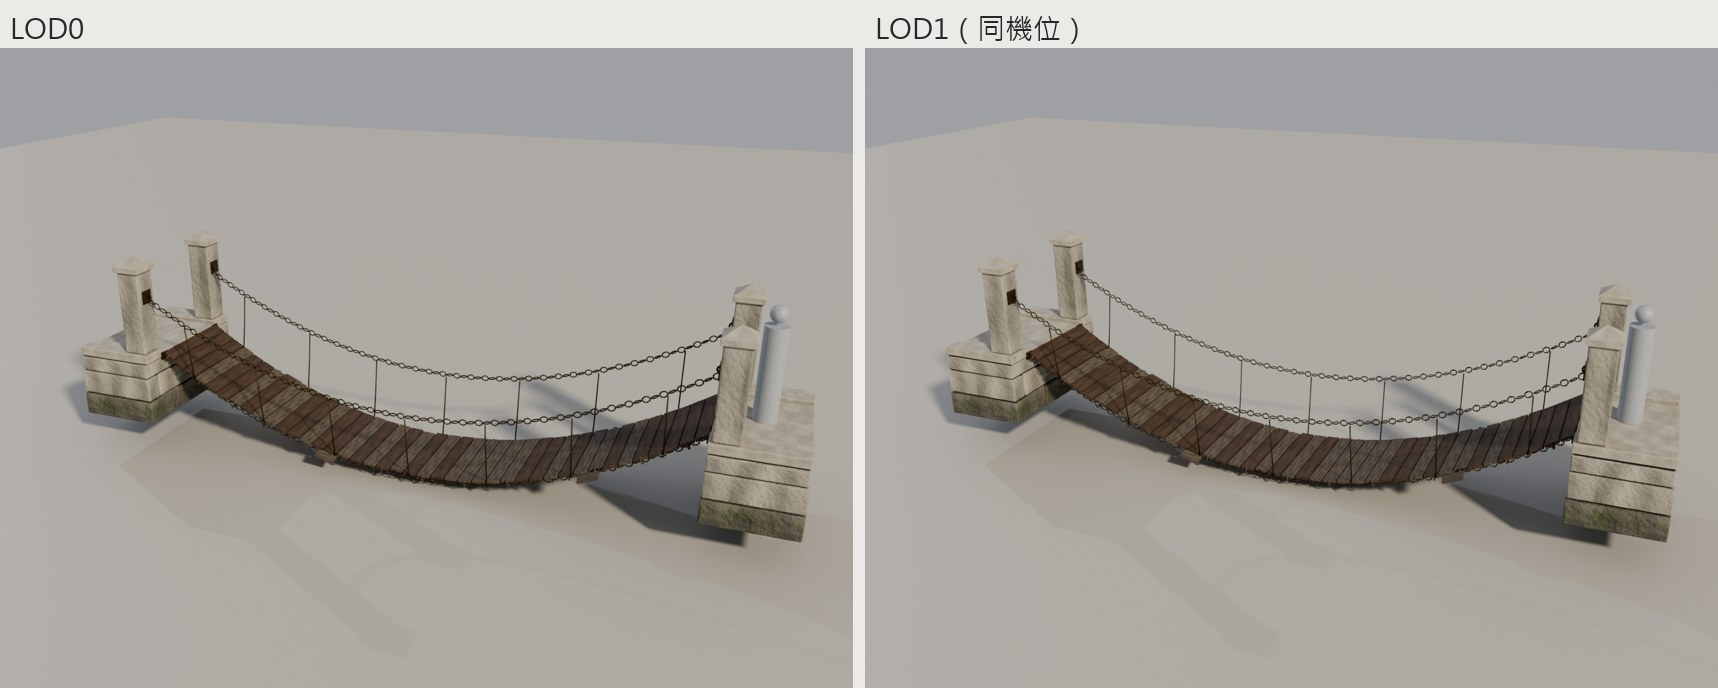
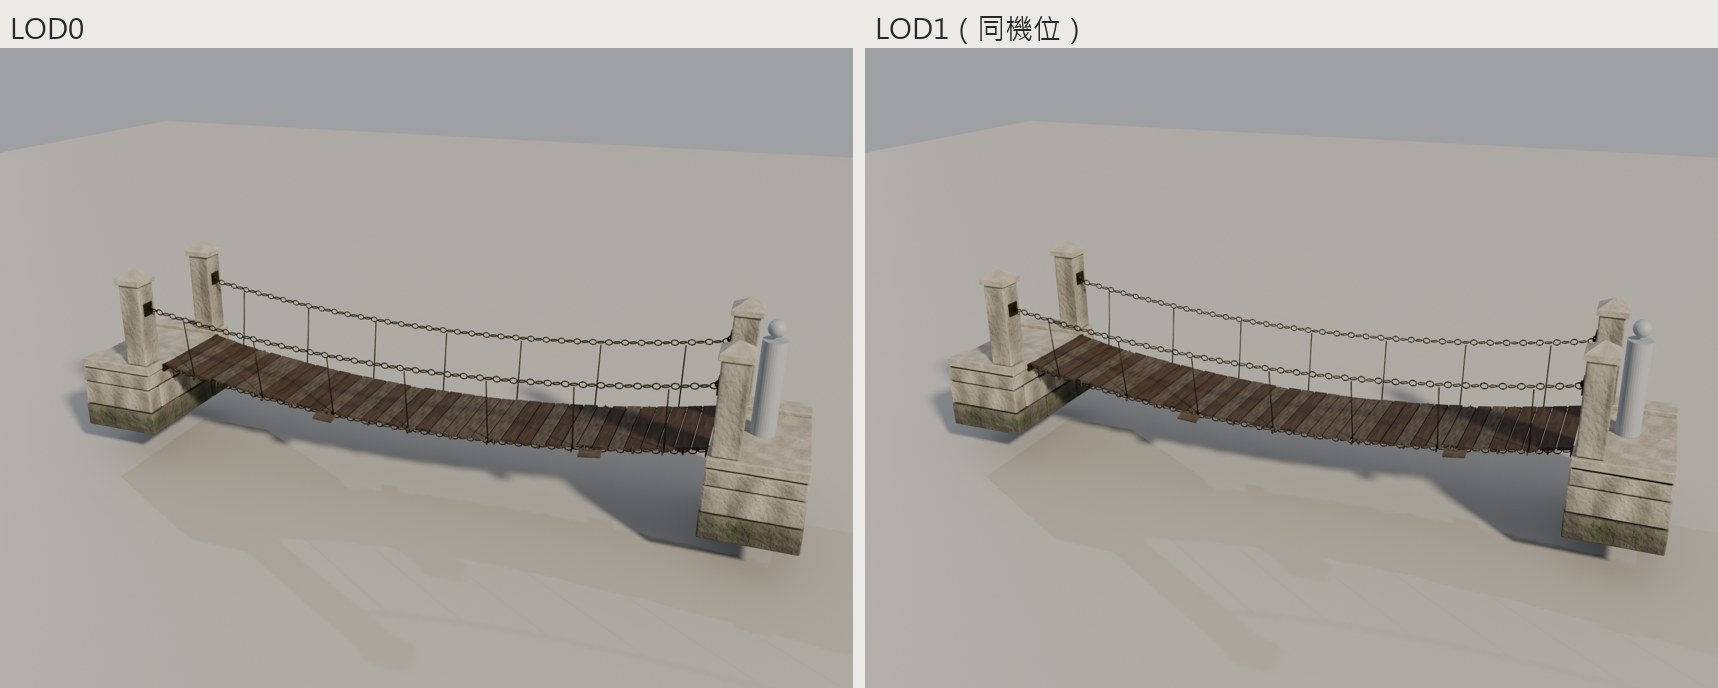
MC02-12M: lower the sag to 0.45 m so both ends stay under 12 degrees (review on #98)
Only the 12 m sag changes (SAG_BY_SPAN); 24 m keeps 1.5 m. Max deck slope 33.1 -> 11.1 degrees. Blender QA errors 0, FBX re-import exact, Unity 6000.3.28f1 check all PASS (walkable deck, guard walls, boardwalk joints 0 cm).

diff --git a/art/source/mc02-rope-bridge/build_mc02.py b/art/source/mc02-rope-bridge/build_mc02.py
@@ -1,6 +1,6 @@
 """承天 · 11/05 A 包 MC02 索橋（Johnnnny0823）。Exports go to art/exports/mc02-rope-bridge.
 
-Two walkable chain bridges, 24 m and 12 m long, 1.6 m deck, 1.5 m sag, both ends at the same height. Same hand and the same
+Two walkable chain bridges, 24 m and 12 m long, 1.6 m deck, 1.5 m / 0.45 m sag, both ends at the same height. Same hand and the same
 shared 2048 trim sheet as MC01 / TX04 (M_MountainStreet_Trim), so the bridges batch with the street and the academy; geometry
 helpers from the MC01 builder and stone_block from the TX04 builder (both merged).
 
@@ -28,21 +28,25 @@ import build_tx04 as tx
 PKG = 'mc02-rope-bridge'; OUT = ROOT / 'art/exports' / PKG; PRE = ROOT / 'art/previews' / PKG
 for p in (OUT, PRE): p.mkdir(parents=True, exist_ok=True)
 SPEC = {'B24': 24.0, 'B12': 12.0}
-W, SAG, HEAD = 1.6, 1.5, 1.4          # deck width, sag, bridgehead depth
+W, HEAD = 1.6, 1.4                     # deck width, bridgehead depth
+# sag per span: 1.5 m on the 24 m bridge (package); the 12 m bridge sags 0.45 m so both ends stay under 12 degrees
+# (review on PR #98: 1.5 m on 12 m gave 33 degrees and read as a ramp of stair-like planks)
+SAG_BY_SPAN = {24.0: 1.5, 12.0: .45}
+def sag(L): return SAG_BY_SPAN[float(L)]
 PX = .78                               # deck chain x (under the plank ends)
 POST_X, POST_H = 1.02, 1.45            # stone post centre x, height above the walking surface
 HAND_Z = 1.05                          # hand chain anchor height above the walking surface
 
 def deck_z(y, L):
-    """walking-surface height: 0 on the bridgeheads, a parabola sagging SAG at mid span between them"""
+    """walking-surface height: 0 on the bridgeheads, a parabola sagging sag(L) at mid span between them"""
     a, b = HEAD, L - HEAD
     if y <= a or y >= b: return 0.0
-    t = (y - a) / (b - a); return -SAG * 4 * t * (1 - t)
+    t = (y - a) / (b - a); return -sag(L) * 4 * t * (1 - t)
 
 def hand_z(y, L):
     """hand chain: anchored at HAND_Z on the inner faces of the posts, sagging with the deck so it stays ~1.05 m above it"""
     a, b = HEAD - .2, L - HEAD + .2
-    t = min(1.0, max(0.0, (y - a) / (b - a))); return HAND_Z - SAG * 4 * t * (1 - t) * .98
+    t = min(1.0, max(0.0, (y - a) / (b - a))); return HAND_Z - sag(L) * 4 * t * (1 - t) * .98
 
 def chain(name, path_fn, y0, y1, seed, link=.13, r_link=.045, wire=.011):
     """a chain of alternating torus links along a curve x(y), z(y) from y0 to y1, link length `link` measured along the curve"""
@@ -178,7 +182,7 @@ def build(mid):
     info = {'id': f'MC02-{int(L)}M', 'package': 'docs/execution/2026-11-05/A-48h-mountain-city-architecture.md', 'author': 'A (Johnnnny0823)',
             'version': 'v001', 'status': 'Exported; Imported/In-game Verified: 未驗',
             'dimensions_m': [round(float(d), 3) for d in dims], 'bounds_min_m': [round(float(v), 3) for v in mn], 'bounds_max_m': [round(float(v), 3) for v in mx],
-            'length_m': L, 'deckWidth_m': W, 'sag_m': SAG, 'bridgehead_m': HEAD, 'endDeckHeights_m': endz,
+            'length_m': L, 'deckWidth_m': W, 'sag_m': sag(L), 'bridgehead_m': HEAD, 'endDeckHeights_m': endz,
             'origin': 'centre of end A outer edge at walking-surface height (z = 0 at both ends); runs along +Y to end B at y = length',
             'cliffBoardwalk': 'place the origin on a CliffBoardwalk v001 connector (its deck is at +1.2 m, running along Y): both ends meet the boardwalk deck height',
             'minTier': 'low', 'lods': lods, 'objectsLOD0': [lod0.name], 'detailObjects': [], 'glowObjects': [],
@@ -186,7 +190,7 @@ def build(mid):
             'textures': {n: '2048x2048' for n in ('T_MountainStreet_Albedo', 'T_MountainStreet_Normal', 'T_MountainStreet_MetallicSmoothness', 'T_MountainStreet_Emission')},
             'textureNote': 'shared MC01 trim sheet (art/textures/mountain-street-houses-a)',
             'collision': f'{tag}_Collision (one mesh: smooth deck ribbon over the full length incl. bridgeheads, 1.1 m guard walls both sides)',
-            'maxDeckSlope_deg': round(math.degrees(math.atan(SAG * 4 / (L - 2 * HEAD))), 1),
+            'maxDeckSlope_deg': round(math.degrees(math.atan(sag(L) * 4 / (L - 2 * HEAD))), 1),
             'fbx': f'art/exports/{PKG}/{tag}.fbx', 'fps': '不寫（手機未實測）'}
     (OUT / f'{tag}.model_info.json').write_text(json.dumps(info, ensure_ascii=False, indent=1), encoding='utf-8')
     print(mid, 'LOD tris', [l['triangles'] for l in lods], 'dims', info['dimensions_m'], 'min', info['bounds_min_m'], 'slope', info['maxDeckSlope_deg'], flush=True)

diff --git a/art/source/mc02-rope-bridge/assemble_mc02.py b/art/source/mc02-rope-bridge/assemble_mc02.py
@@ -54,7 +54,7 @@ for mid in mids:
             if o.parent is None: o.location = o.location + at
         objs += [o for o in new if o.type == 'MESH']
     if CLAY: clay_all(objs)
-    figure(-.95, -1.6, 0); figure(.3, L / 2, -1.5)   # first figure stands beside the eye-height camera
+    figure(-.95, -1.6, 0); figure(.3, L / 2, -{24: 1.5, 12: .45}[int(round(L))])   # first figure stands beside the eye-height camera
     cam = bpy.data.objects.new('cam', bpy.data.cameras.new('cam')); sc.collection.objects.link(cam); sc.camera = cam
     span = L + 12
     for name, loc, at, lens in (('three_quarter', (-span * .55, L / 2 - span * .32, span * .22), (0, L / 2, -.8), 35),

diff --git a/art/exports/mc02-rope-bridge/README.md b/art/exports/mc02-rope-bridge/README.md
@@ -3,14 +3,14 @@
 | 誰做的 | A（Johnnnny0823） |
 | 工作包 | docs/execution/2026-11-05/A-48h-mountain-city-architecture.md（MC02；併入 docs/execution/2026-11-08/A-80h-mountain-city.md 第一部分） |
 | ID | MC02-24M、MC02-12M 索橋 |
-| 分支／PR | art/a-1105-mc02-rope-bridge ／ PR 待開 |
+| 分支／PR | art/a-1105-mc02-rope-bridge ／ #98 |
 | 版本 | v001 |
 | 狀態 | Exported；Imported：見「驗收紀錄」的 Unity 6000.3.28f1 檢查；In-game Verified：未驗 |
 | 素材來源 | 原創。建模腳本 `art/source/mc02-rope-bridge/build_mc02.py`，沿用 MC01（#80）的建模函式與共用貼圖、TX04（#90）的石塊函式；三視圖用 Codex CLI 生成，存 `art/references/MC02-*/` |
 
 # MC02 索橋
 
-兩座可走的鐵鏈索橋，長 24 m 和 12 m，橋面寬 1.6 m，下垂 1.5 m，兩端同高。兩座造型相同，只差長度，所以一起交、不另做樣品。
+兩座可走的鐵鏈索橋，長 24 m 和 12 m，橋面寬 1.6 m，下垂 1.5 m（24 m）和 0.45 m（12 m），兩端同高。兩座造型相同，只差長度，所以一起交、不另做樣品。
 
 ![接棧道](../../previews/mc02-rope-bridge/MC02_B24_with_boardwalk_sheet.jpg)
 
@@ -30,16 +30,16 @@
   - 把原點放在棧道 `model_info.json` 的接口上（棧道板面在 +1.2 m、沿 Y 方向），A 端就和棧道板面同高。
   - B 端同理，接另一段棧道的入口接口。
   - `assemble_mc02.py` 照這兩個接口擺了兩段原封不動的棧道，Unity 檢查也照同樣方式擺，並用射線量接口高低差。
-- **下垂與坡度**：兩座都垂 1.5 m（規格），所以 12 m 那座兩端比較陡。
-  - 最大坡度：24 m 是 15.8°、12 m 是 33.1°，數字也寫在 `model_info.json` 的 `maxDeckSlope_deg`。
-  - 12 m 兩端的木板會像淺階一樣排；角色控制器的爬坡上限要能吃到約 35°。如果核心組要更平，可以只把 12 m 的下垂改小，改一個數字重跑即可。
+- **下垂與坡度**：24 m 垂 1.5 m（規格）；12 m 照 #98 審查改垂 0.45 m（原本也垂 1.5 m，兩端 33°，像在爬坡、木板像樓梯）。
+  - 最大坡度：24 m 是 15.8°、12 m 是 11.1°，數字也寫在 `model_info.json` 的 `maxDeckSlope_deg` 和 `sag_m`。
+  - 審查建議「0.6 m 左右、12° 以內」；12 m 扣掉兩端各 1.4 m 橋頭後跨距 9.2 m，垂 0.6 m 是 14.6°，所以取 0.45 m 讓坡度落在 12° 以內。下垂寫在 `build_mc02.py` 的 `SAG_BY_SPAN`，只改這個數字重跑即可。
 
 ## 數字
 
 | ID | 尺寸 W×L×H（m） | 範圍（z） | LOD0 / LOD1 / LOD2 三角面 | 物件 | 材質 | 最大坡度 | 最低檔 |
 |---|---|---|---|---|---|---|---|
 | MC02-24M（`MC02_B24`） | 2.583 × 23.997 × 3.363 | −1.629 … +1.734 | 70,724 / 35,362 / 12,704 | 1 | 1 | 15.8° | low |
-| MC02-12M（`MC02_B12`） | 2.583 × 11.997 × 3.363 | −1.629 … +1.734 | 36,652 / 18,326 / 5,930 | 1 | 1 | 33.1° | low |
+| MC02-12M（`MC02_B12`） | 2.583 × 11.997 × 2.934 | −1.200 … +1.734 | 35,212 / 17,606 / 5,578 | 1 | 1 | 11.1° | low |
 
 - **寬度**：2.58 m 是含石柱帽的寬度，橋面淨寬 1.6 m。
 - **面數**：LOD0 大部分是逐環建的鐵鏈。LOD1 ≤ 50 %、LOD2 ≤ 15 %。
